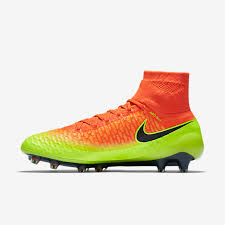
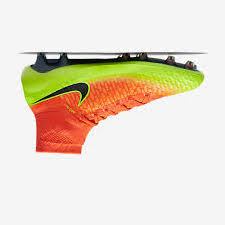
MST-32: Change jsonb to text (#33)
* MST-32: Change jsonb to text

* MST-32: What the fuck is this?

* MST-32: Bump magista, dbinit and flyway version

* MST-32: Add jooq dep

* MST-32: rotate-image-by 180 degrees

diff --git a/src/main/java/com/rbkmoney/magista/dao/InvoiceDaoImpl.java b/src/main/java/com/rbkmoney/magista/dao/InvoiceDaoImpl.java
@@ -8,7 +8,6 @@ import org.apache.thrift.TException;
 import org.apache.thrift.TSerializer;
 import org.apache.thrift.protocol.TJSONProtocol;
 import org.apache.thrift.protocol.TSimpleJSONProtocol;
-import org.postgresql.util.PGobject;
 import org.slf4j.Logger;
 import org.slf4j.LoggerFactory;
 import org.springframework.core.NestedRuntimeException;
@@ -22,7 +21,6 @@ import javax.sql.DataSource;
 import java.nio.charset.StandardCharsets;
 import java.sql.SQLException;
 import java.sql.Timestamp;
-import java.sql.Types;
 
 /**
  * Created by tolkonepiu on 23.08.16.
@@ -50,9 +48,9 @@ public class InvoiceDaoImpl extends NamedParameterJdbcDaoSupport implements Invo
                     source,
                     getRowMapper()
             );
-          log.trace("Invoice found by id: {}", id);
+            log.trace("Invoice found by id: {}", id);
         } catch (EmptyResultDataAccessException ex) {
-            invoice =  null;
+            invoice = null;
             log.trace("Invoice not found by id: {}", id);
         } catch (NestedRuntimeException ex) {
             throw new DaoException(ex);
@@ -94,7 +92,7 @@ public class InvoiceDaoImpl extends NamedParameterJdbcDaoSupport implements Invo
 
     private MapSqlParameterSource createSqlParameterSource(Invoice invoice) {
         try {
-            MapSqlParameterSource source = new MapSqlParameterSource()
+            return new MapSqlParameterSource()
                     .addValue("id", invoice.getId())
                     .addValue("event_id", invoice.getEventId())
                     .addValue("merchant_id", invoice.getMerchantId())
@@ -104,16 +102,9 @@ public class InvoiceDaoImpl extends NamedParameterJdbcDaoSupport implements Invo
                     .addValue("currency_code", invoice.getCurrencyCode())
                     .addValue("created_at", Timestamp.from(invoice.getCreatedAt()))
                     .addValue("changed_at", Timestamp.from(invoice.getChangedAt()))
-                    .addValue("model", new TSerializer(new TJSONProtocol.Factory()).toString(invoice.getModel(), StandardCharsets.UTF_8.name()));
-
-            PGobject data = new PGobject();
-            data.setType("jsonb");
-            data.setValue(new TSerializer(new TSimpleJSONProtocol.Factory()).toString(invoice.getModel(), StandardCharsets.UTF_8.name()));
-            source.addValue("data", data, Types.OTHER);
-
-            return source;
-
-        } catch (SQLException | TException ex) {
+                    .addValue("model", new TSerializer(new TJSONProtocol.Factory()).toString(invoice.getModel(), StandardCharsets.UTF_8.name()))
+                    .addValue("data", new TSerializer(new TSimpleJSONProtocol.Factory()).toString(invoice.getModel(), StandardCharsets.UTF_8.name()));
+        } catch (TException ex) {
             throw new DaoException("Failed to serialize invoice model", ex);
         }
     }

diff --git a/src/main/java/com/rbkmoney/magista/dao/PaymentDaoImpl.java b/src/main/java/com/rbkmoney/magista/dao/PaymentDaoImpl.java
@@ -10,7 +10,6 @@ import org.apache.thrift.TException;
 import org.apache.thrift.TSerializer;
 import org.apache.thrift.protocol.TJSONProtocol;
 import org.apache.thrift.protocol.TSimpleJSONProtocol;
-import org.postgresql.util.PGobject;
 import org.slf4j.Logger;
 import org.slf4j.LoggerFactory;
 import org.springframework.core.NestedRuntimeException;
@@ -24,7 +23,6 @@ import javax.sql.DataSource;
 import java.nio.charset.StandardCharsets;
 import java.sql.SQLException;
 import java.sql.Timestamp;
-import java.sql.Types;
 
 /**
  * Created by tolkonepiu on 23.08.16.
@@ -92,7 +90,7 @@ public class PaymentDaoImpl extends NamedParameterJdbcDaoSupport implements Paym
 
     private MapSqlParameterSource createSqlParameterSource(Payment payment) {
         try {
-            MapSqlParameterSource source = new MapSqlParameterSource()
+            return new MapSqlParameterSource()
                     .addValue("id", payment.getId())
                     .addValue("event_id", payment.getEventId())
                     .addValue("invoice_id", payment.getInvoiceId())
@@ -108,16 +106,10 @@ public class PaymentDaoImpl extends NamedParameterJdbcDaoSupport implements Paym
                     .addValue("ip", payment.getIp())
                     .addValue("created_at", Timestamp.from(payment.getCreatedAt()))
                     .addValue("changed_at", Timestamp.from(payment.getChangedAt()))
-                    .addValue("model", new TSerializer(new TJSONProtocol.Factory()).toString(payment.getModel(), StandardCharsets.UTF_8.name()));
+                    .addValue("model", new TSerializer(new TJSONProtocol.Factory()).toString(payment.getModel(), StandardCharsets.UTF_8.name()))
+                    .addValue("data", new TSerializer(new TSimpleJSONProtocol.Factory()).toString(payment.getModel(), StandardCharsets.UTF_8.name()));
 
-            PGobject data = new PGobject();
-            data.setType("jsonb");
-            data.setValue(new TSerializer(new TSimpleJSONProtocol.Factory()).toString(payment.getModel(), StandardCharsets.UTF_8.name()));
-            source.addValue("data", data, Types.OTHER);
-
-            return source;
-
-        } catch (SQLException | TException ex) {
+        } catch (TException ex) {
             throw new DaoException("Failed to serialize payment model", ex);
         }
     }
